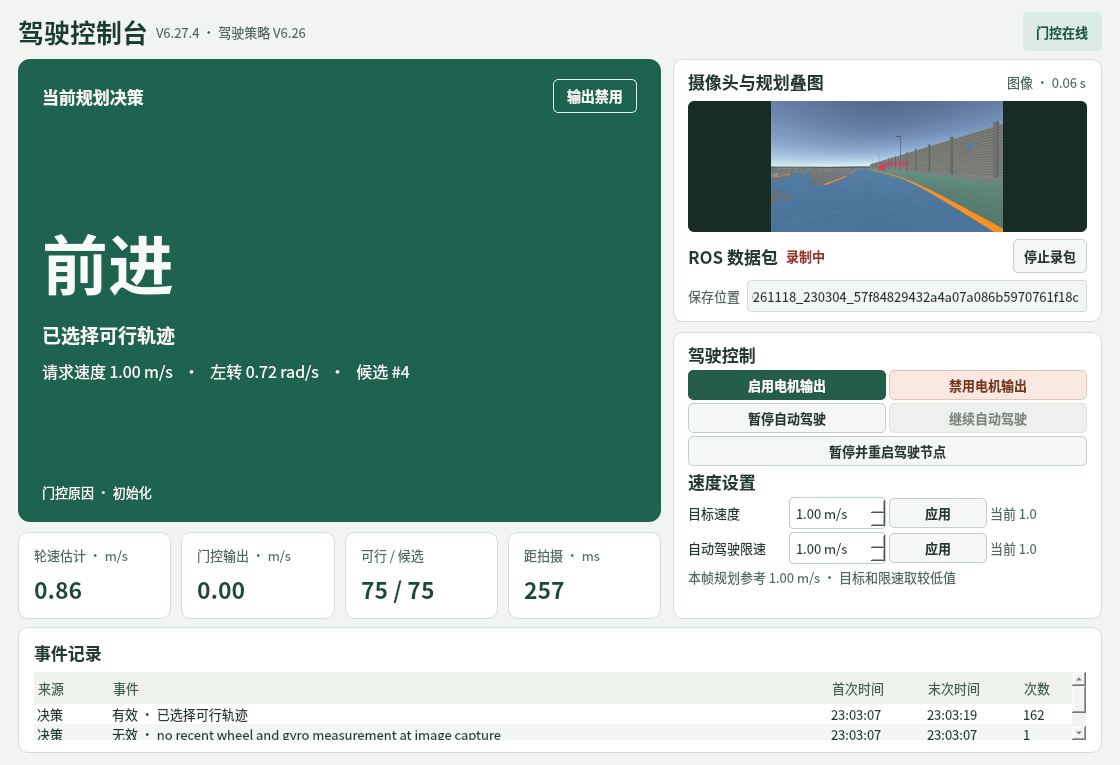
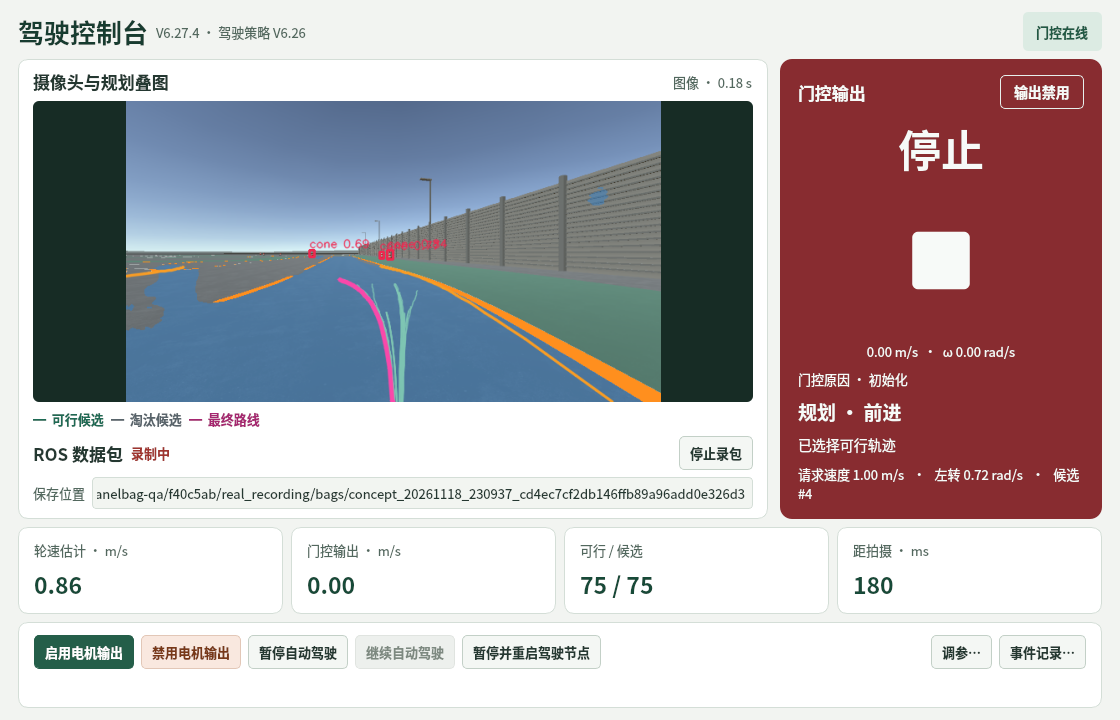
Publish dashboard, vector and camera recording acceptance in the deployment handoff

diff --git a/vehicle_concept/AGENTS.md b/vehicle_concept/AGENTS.md
@@ -7,7 +7,7 @@
 | 版本起点 | 团队 neo main `d8277bd2b4ce95bcab2883e9b68b011749c0d9ad`。本分支单独安装。 |
 | 冻结策略是否接对 | 五场历史 Unity 记录共 1,079 帧。重放时路径、路界、桶、候选选择、分数和控制均与冻结版一致。含内、外圈整圈及三种局部障碍，倒车样本为零。[逐场记录](src/concept_drive/REPLAY.json) |
 | 相机识别是否接对 | B1.4 在工作站 GPU 上复核 12 张实车录像图，5,529,600 个道路与标线像素判断、1,200 个检测结果与原模型一致。[对照记录](src/concept_yolop/SOURCES.md) |
-| 手柄与面板 | Foxy 软件 CAN 端点实测手柄优先、松手停车、恢复只收新指令和各输入失联。面板用大色块显示当前规划，电机状态在色块右上方。[手柄试验](checks/foxy_gate_dds.md) · [新版面板截图](checks/recording/panel-v6.27.4.png) |
+| 手柄与面板 | Foxy 软件 CAN 端点实测手柄优先、松手停车、恢复只收新指令和各输入失联。面板在相机上绘制候选与最终路线，并显示自动或手柄的实际输出方向。[手柄试验](checks/foxy_gate_dds.md) · [新版面板截图](checks/recording/panel-v6.27.4.png) |
 | V6.27.4 面板录包 | 在摄像头画面下方点「开始录包」或「停止录包」。11 个话题保留 640×360 的 JPEG 识别叠图、驾驶决策、反馈和控制。叠图按 B1.4 的输出频率录制。[图像和 Foxy 验收](checks/recording/overlay-v6.27.4.md) |
 | V6.26 初版从相机到车身图的接线验证 | Foxy 中从原始 RGB 走 B1.4 CPU 推理、轮速/IMU、白盒和 H12，到 RViz 消息。目标/上限为 1.0 m/s。内圈归档的首帧两次均得到 75 条可行候选、选择索引 4、路径 21 点、地图 1,931 点，单帧驾驶计算 507 / 560 ms。从干净 Git 归档构建后，以本仓库自带的移动桶外圈首帧复验，75 条可行、选择索引 29、路径 25 点、地图 2,142 点，用时 782 ms。三次均未标定，自动输出均为零。时钟由测试控制，Jetson 在真实时钟下是否满足 0.5 秒新鲜度需要实测。[复验脚本](checks/replay_camera.py) |
 | 下一位 agent 的第一项实车工作 | 查实际设备和旧启动命令，核对当前 ZED 安装与投影。确认输入、左右方向、静止轮速和驱动器断 CAN 后的表现，才进入低速自动。车载 Jetson 的推理耗时、实车制动距离、行驶方向与圈速均待测。 |
@@ -142,16 +142,16 @@ Foxy 的 Fast DDS 默认共享内存段在本次环境约为 545 kB，一张 640
 
 | 观察项 | 读数和图怎样理解 |
 |---|---|
-| 面板 | 左侧大色块显示当前规划决策、原因、请求速度与转向。绿色表示计划前进、紫色表示计划倒车、琥珀色表示等待、仅转向或试算、红色表示决策失效或过期。色块右上方显示实际的电机门控状态。右侧是相机叠图、录包和控制。相同事件按来源合并，保留首次、最近时间和次数。 |
-| RViz 相机 | `/concept/view/camera`。蓝色为当前车道，橙色为标线或边缘，粉色为这张图对应的已选轨迹。尚未得到同时间戳决策的画面可以先显示识别。 |
+| 面板 | 左侧是相机叠图和录包。右侧根据门控发出的最后一条速度和转向指令显示动作，前进为绿、停止为红、倒车闪红。箭头向上为直行，左转朝左、右转朝右，向下表示倒车。控制和「调参…」在底部。「事件记录…」可查看按来源合并的事件、首次和最近时间及次数。 |
+| 相机叠图 | 面板和 RViz 读 `/concept/view/camera`。蓝色填充是当前车道，橙线是标线或边缘，青绿细线是可行候选，灰色细线是淘汰候选，粉色粗线是最终路线。候选和相机图按采集时间戳匹配，暂未收到新决策时还能看识别。 |
 | RViz 车前与记忆 | 固定帧 `base_footprint`。局部图 `/concept/view/local` 用浅绿色显示通过筛查的候选、灰色显示淘汰的候选、粉色标出最终一条。记忆图 `/concept/view/map` 分色表示本车道与邻道，实虚线均为橙色；已确认静止桶标点，移动桶显示未来中心位置的不确定范围。图随车身坐标更新。 |
-| 调速 | 「目标速度」是希望规划参考的速度。「自动驾驶限速」是门控允许发送的自动速度指令上限。比如目标设 3 m/s、限速设 1 m/s，规划就按 1 m/s 计算，遇到弯道或障碍还能主动降速。修改限速会暂停自动驾驶，确认后点「继续自动驾驶」。手柄控制使用自己的设置，实际车速看轮速。 |
+| 调速 | 点底部「调参…」打开速度对话框。「目标速度」是希望规划参考的速度。「自动驾驶限速」是门控允许发送的自动速度指令上限。比如目标设 3 m/s、限速设 1 m/s，规划就按 1 m/s 计算，遇到弯道或障碍还能主动降速。修改限速会暂停自动驾驶，确认后点「继续自动驾驶」。手柄控制使用自己的设置，实际车速看轮速。 |
 | 动作 | 开启输出后仍处于暂停。手柄居中、有心跳、状态有效时点击「继续运行」。手柄一旦接管，自动命令被切断；视觉和选路继续。松手立即要求零轮速，保持到下一次点击「继续」，恢复前产生的指令全部作废。禁用输出覆盖手动和自动。 |
 | 停滞重启 | 先读原因。在面板点重启，面板先等门控确认暂停，再请求驾驶节点清空路界、桶和时序历史，重新接收传感器。等待新输入后手动继续。若驾驶进程退出，launch 尝试重启进程；门控超时后仍需手动恢复。服务未应答时按第 6 节处理。 |
 
 ### 用驾驶面板记录一次实验
 
-在弹窗右侧的「ROS 数据包」一栏点 **开始录包**。显示「录制中」后开始实验。点 **停止录包**，等到显示 **已保存 · N 条消息**，旁边的路径就是这一袋。再次开始会新建一袋。录制中正常关闭面板也会收尾。电机禁用、暂停自动或手柄接管时都可以录。若显示「录制失败」，将鼠标停在状态上查看原因。保留对应目录用于排查。
+在相机下方的「ROS 数据包」一栏点 **开始录包**。显示「录制中」后开始实验。点 **停止录包**，等到显示 **已保存 · N 条消息**，旁边的路径就是这一袋。再次开始会新建一袋。录制中正常关闭面板也会收尾。电机禁用、暂停自动或手柄接管时都可以录。若显示「录制失败」，将鼠标停在状态上查看原因。保留对应目录用于排查。
 
 默认写入运行面板那台机器的 `~/rosbags/concept/`。若面板单独开在笔记本上，文件就保存在笔记本。需要换盘时，在**启动面板的终端**先设置 `export CONCEPT_BAG_DIR=/实际挂载点/rosbags`。检查该路径可写并有足够磁盘空间。复制面板显示的完整目录，可用 `ros2 bag info "完整目录"` 查看时长、话题及条数。录包用到 Foxy 的 `ros2bag`、`rosbag2_storage_default_plugins` 和 `python3-yaml`。缺前两项时，Foxy 的 apt 包名分别为 `ros-foxy-ros2bag` 和 `ros-foxy-rosbag2-storage-default-plugins`。
 

diff --git a/vehicle_concept/checks/recording/overlay-v6.27.4.md b/vehicle_concept/checks/recording/overlay-v6.27.4.md
@@ -1,8 +1,16 @@
 # V6.27.4 驾驶面板与图像录包验收
 
-![Foxy 回放中的面板，左侧大字显示前进，右侧显示实时图像和录制状态](panel-v6.27.4.png)
+![Foxy 回放中的主面板，左侧相机叠图绘有候选和最终轨迹，右侧显示门控输出](panel-v6.27.4.png)
 
-面板左侧显示规划器当前的动作、原因、请求速度、转向和候选编号。电机状态单独显示在色块右上角。截图里规划选择前进，门控仍保持禁用，实际发送的速度指令为 0。右侧保留实时叠图、录包、控制和调速。
+左侧是相机画面和录包。青绿细线表示可行候选，灰色细线表示被筛掉的候选，粉色粗线表示选中的路线。画面与规划结果按拍摄时间戳匹配。右侧先显示门控的最终输出，再显示规划器建议的动作，包括请求速度、转向和候选编号。控制按钮在底部，「调参…」和「事件记录…」分别打开小窗口。
+
+前进显示绿色，停止显示红色方块，倒车显示向下箭头并交替闪动深红和亮红。前进箭头把角速度映射到从左 90° 到右 90°，对小角速度做放大。自动使用现有的 ±1.55 rad/s 规划范围，手柄使用底盘配置中的最大绝对转向请求。箭头表达软件最后发送的指令。原地转向用左右水平箭头。
+
+| 自动左转前进 | 手柄接管倒车，两种红色交替 | 手柄松开后 |
+|---|---|---|
+| ![绿色，箭头朝左上](v6274-vector-auto-left.png) | ![深红底，箭头朝下](v6274-vector-manual-reverse.png) ![亮红底，箭头朝下](v6274-vector-manual-reverse-flash.png) | ![红底白色停止方块](v6274-vector-manual-release.png) |
+
+上表由实际 Qt 面板接收 Foxy 软件门控状态时截取。自动给出 0.40 m/s、向左转 0.50 rad/s，箭头向左偏 51°。手柄接管时发出 −0.70 m/s，窗口显示向下箭头和两种红色。松开后软件门控发出零速度和零转向，窗口显示停止。[门控数值与角度](v6274-vector-evidence.json)
 
 **自动驾驶限速**是自动速度指令的上限。目标速度为 3 m/s、限速为 1 m/s 时，规划按 1 m/s 计算，过弯或避障时可以更慢。一旦收到超过上限的自动指令，门控会暂停自动。修改限速后也要手动点「继续自动驾驶」。手柄控制使用自己的设置。
 
@@ -14,16 +22,16 @@
 
 ## 验收
 
-从源码 `d5138e8462f8b7465b4cda9ee295220c2435df74` 的 Git 归档，在独立 Ubuntu 20.04 / ROS 2 Foxy 环境构建 12 个软件包。44 项测试通过。两个真实 Qt 录包会话分别通过点击停止和关窗结束，各保存 165 条消息，其中各有 15 张 JPEG 可解码。录制过程没有新增未压缩原图、感知帧、RViz 图层或最终 CAN 指令的 DDS 订阅。结束后没有残留录包进程。
+从源码 `f40c5ab` 的 Git 归档，在独立 Ubuntu 20.04 / ROS 2 Foxy 环境构建 12 个软件包，46 项测试通过。两个真实 Qt 录包会话分别通过点击停止和关窗结束，各保存 165 条消息，其中各有 15 张 JPEG 可解码。计数与数据库一致。录包进程未订阅未压缩画面、含图像的感知消息、RViz 图层及最终 CAN 话题。退出后录包进程已清理。
 
-最终提交 `4453e3a` 缩小了右栏和事件列表的间距。18 项面板测试通过。在 1366×768 的显示环境中，窗口内容为 1120×765。上图来自该布局的独立 22 秒录包回放。
+进一步放大小角速度的面板版本 `2bf9458` 通过 19 项面板测试和上表中的软件门控复验。主窗口截图为 1120×720。
 
 工作站负载使用 RTX 4070 Ti 和 60 秒 Unity 外圈障碍画面，按 15 Hz 输入 B1.4。面板处于录制中。以下数据来自 DB 逐帧解码、独立接收端的时间戳核对，以及另一隔离域的 `ros2 bag play --topics /concept/perception/overlay/compressed` 实测。
 
 | 项目 | 结果 |
 |---|---|
 | JPEG 画面 | 收到 900 张识别叠图，录入 900 张，回放收到 900 张，逐帧时间戳一致。每张 JPEG 平均 15.5 kB。 |
-| 决策与指令 | 658 条新决策与 658 条对应的自动指令全部录到。新指令在任意连续一秒内至少 8 条，最长间隔 184.5 ms。 |
-| 磁盘与内存 | 整包 15,830 条消息，SQLite 97.5 MiB，其中 JPEG 内容约 14.0 MB。录包进程峰值常驻内存 49.7 MiB。 |
+| 决策与指令 | 665 条新决策与 665 条对应的自动指令全部录到。新指令在任意连续一秒内至少 8 条，最长间隔 163.2 ms。 |
+| 磁盘与内存 | 整包 15,850 条消息，SQLite 96.8 MiB，其中 JPEG 内容约 14.0 MB。录包进程峰值常驻内存 49.5 MiB。 |
 
 车载 Jetson 的实际内存、磁盘负载及指令时序仍需实测。[工作站统计](overlay-v6.27.4.json) · [部署与回放命令](../../AGENTS.md)
